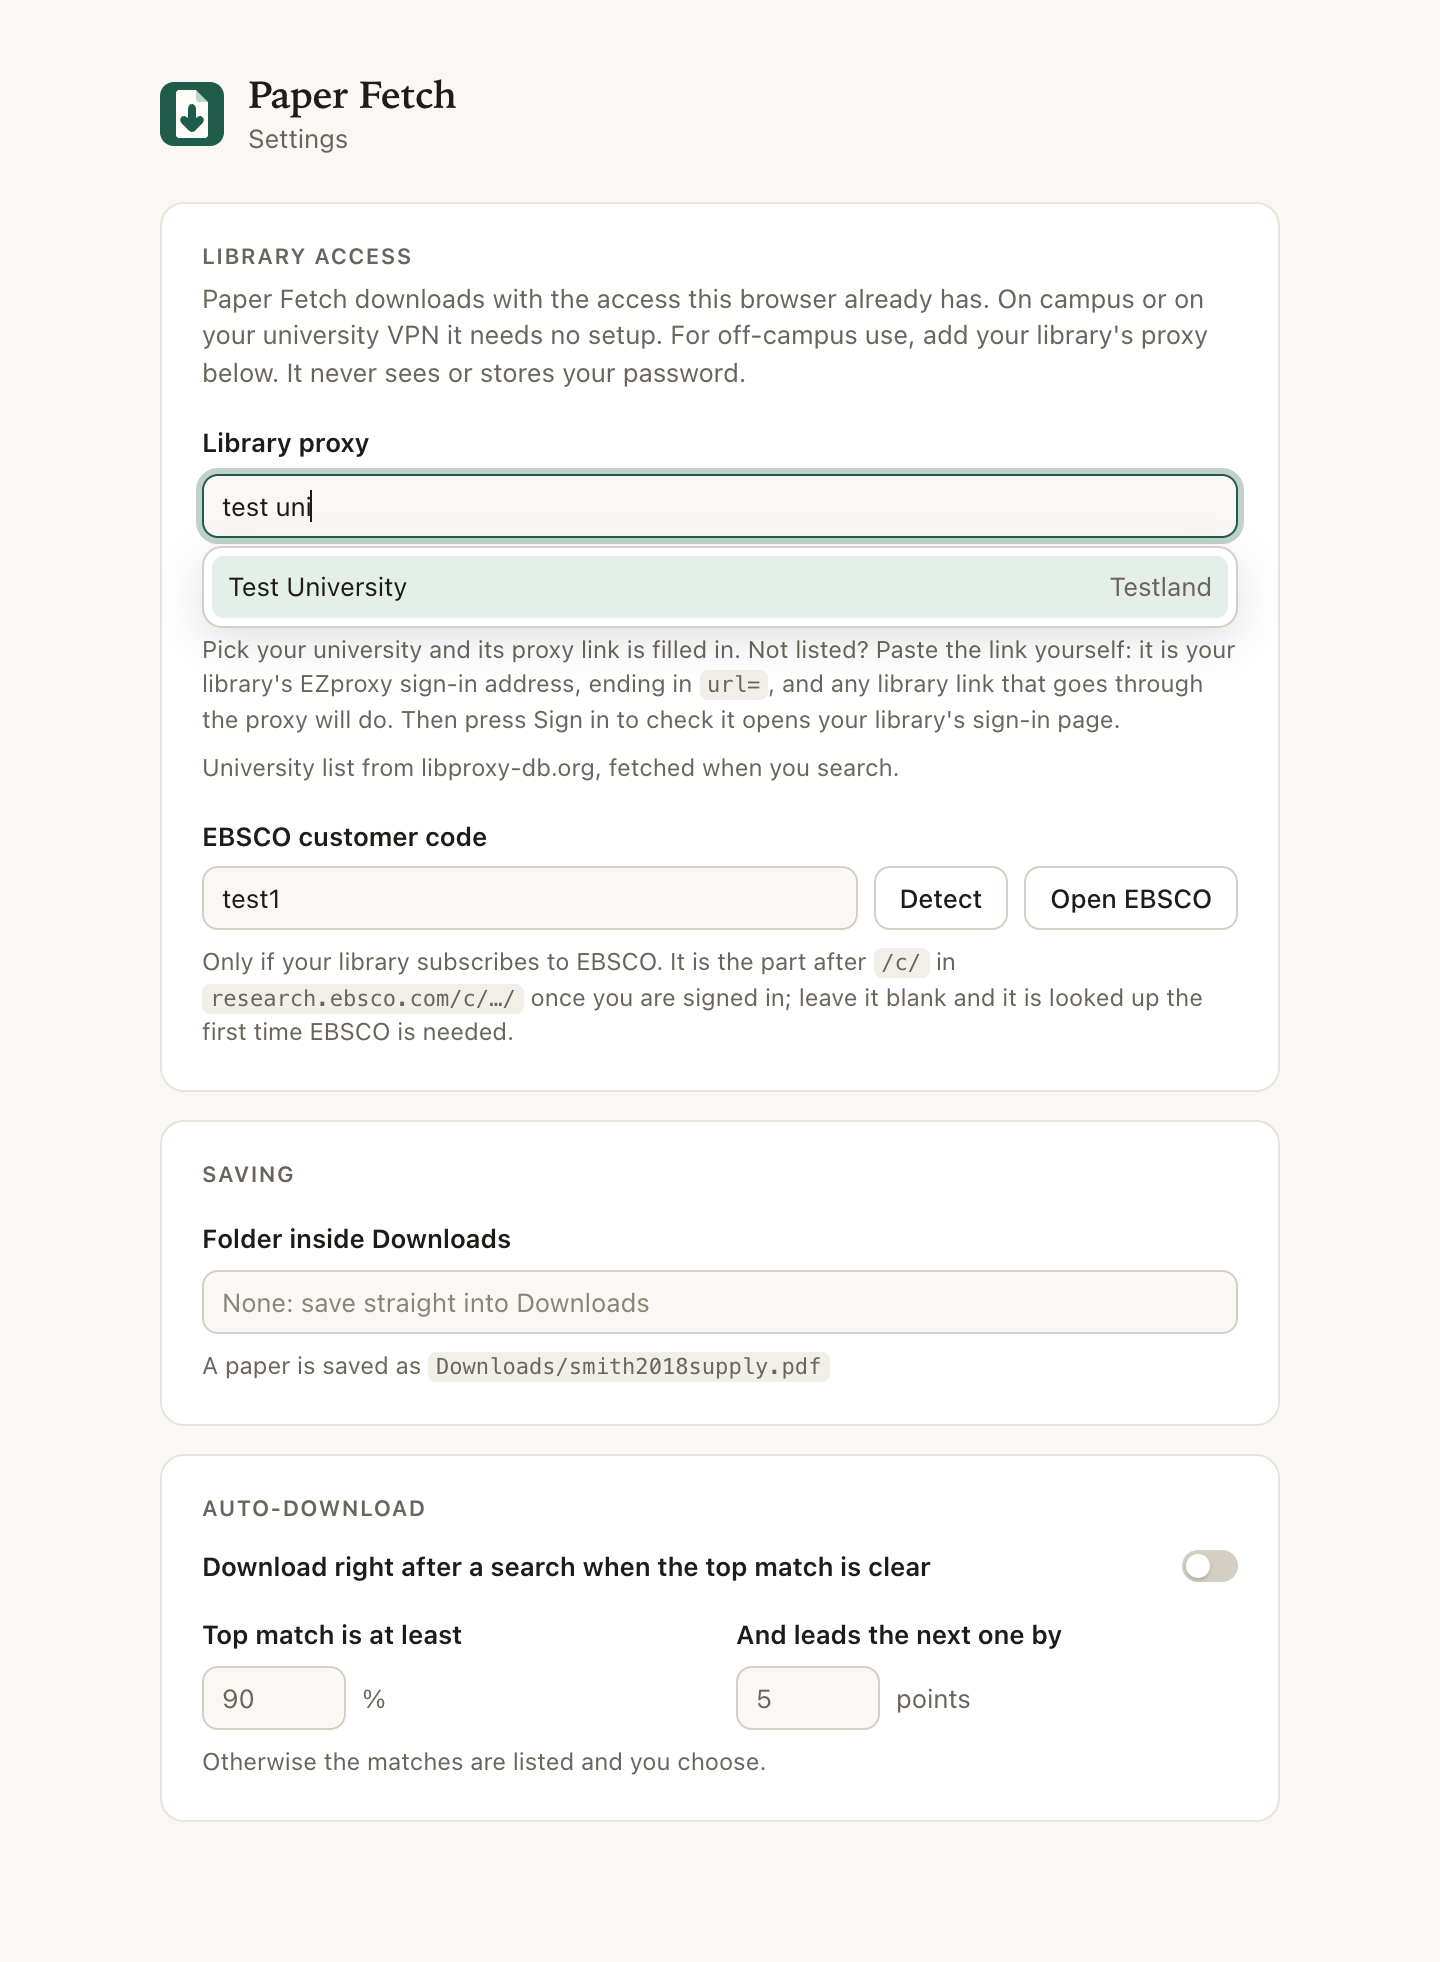
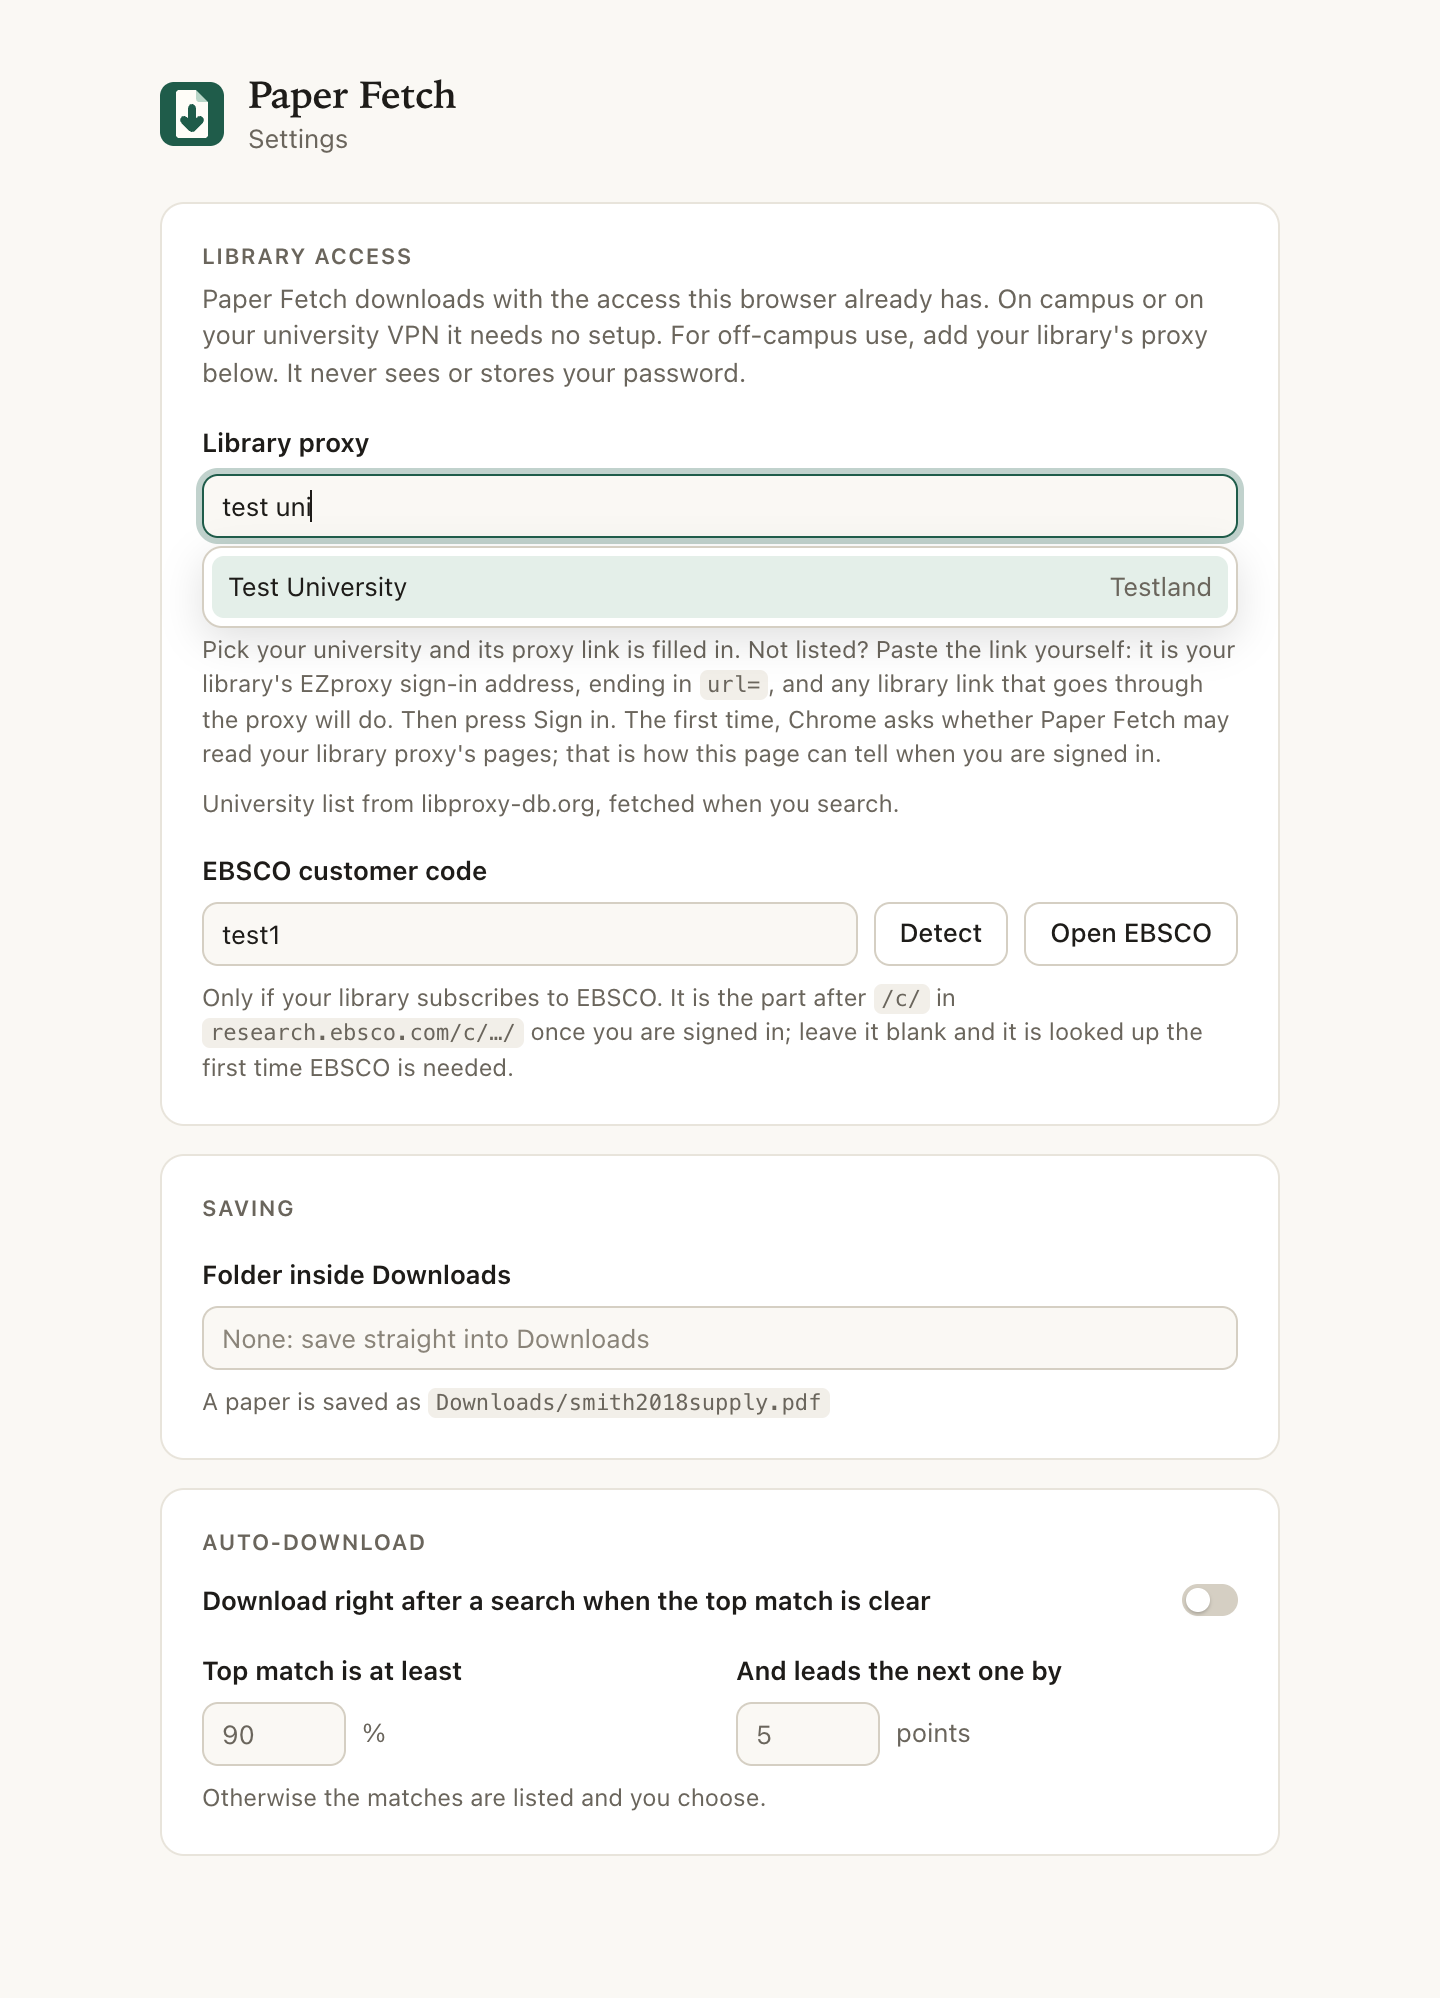
0.5.0: settings show whether you are signed in to the library
The Sign in button turns into a red Sign out once a session with the library
proxy exists, and back when it ends. The state is re-read when the sign-in
tab closes and when the settings page comes back into view.

Reading the proxy's pages needs a host permission, asked for (optionally, for
that one library) the first time Sign in is pressed. Only things a session
alone produces count as signed in: /login leading to /menu, or a proxied site
being handed over. Real proxies with single sign-on answer a signed-out
visitor with a page that has no password box, so its absence proves nothing.

diff --git a/extension/options.js b/extension/options.js
@@ -1,4 +1,4 @@
-import { downloadPath, normalizeProxy } from "./lib.js";
+import { downloadPath, normalizeProxy, proxyScope, proxySession } from "./lib.js";
 
 const $ = (id) => document.getElementById(id);
 
@@ -209,6 +209,7 @@ async function pickSchool(school) {
     await save("proxy");
     $("proxyNote").textContent = `Proxy link set for ${school.name}. Press Sign in to check it opens your library's sign-in page.`;
     $("proxyNote").className = "hint ok";
+    checkSession();
   } catch (error) {
     flash(`Not saved: ${error.message}`, true);
   }
@@ -246,7 +247,9 @@ $("school").addEventListener("keydown", (event) => {
 
 for (const id of Object.keys(CONTROLS)) {
   $(id).addEventListener("change", () => {
-    save(id).catch((error) => flash(`Not saved: ${error.message}`, true));
+    save(id)
+      .then(() => id === "proxy" && checkSession())
+      .catch((error) => flash(`Not saved: ${error.message}`, true));
   });
 }
 $("subfolder").addEventListener("input", showPreview);
@@ -255,26 +258,113 @@ $("detect").addEventListener("click", detect);
 $("openEbsco").addEventListener("click", () => {
   chrome.tabs.create({ url: "https://research.ebsco.com/" });
 });
+// ---- signed in to the library, or not ----
+//
+// The button next to the proxy link is "Sign in" until a session with the
+// library proxy exists, then a red "Sign out". Seeing that needs permission to
+// read the proxy's pages, which is asked for on the first Sign in.
+
+let session = "unknown"; // "in" | "out" | "unknown" (not allowed to look, or no proxy)
+let signInTab = null;
+let looking = null;
+const PROXY_HINT = $("proxyNote").innerHTML;
+
+function showSession(state) {
+  session = state;
+  const signedIn = state === "in";
+  const button = $("openProxy");
+  button.textContent = signedIn ? "Sign out" : "Sign in";
+  button.classList.toggle("danger", signedIn);
+  const note = $("proxyState");
+  note.hidden = state === "unknown";
+  note.textContent = signedIn ? "Signed in to your library" : "Not signed in";
+  note.className = `state ${state}`;
+  if (signedIn) {
+    // "Press Sign in to check…" has been answered.
+    $("proxyNote").innerHTML = PROXY_HINT;
+    $("proxyNote").className = "hint";
+  }
+}
+
+async function checkSession() {
+  const proxy = $("proxy").value.trim();
+  const scope = proxy ? proxyScope(proxy) : null;
+  if (!scope || !(await chrome.permissions.contains({ origins: scope }))) {
+    showSession("unknown");
+    return;
+  }
+  if (!looking) {
+    // The button keeps its last state while this runs; only the line under it changes.
+    $("proxyState").hidden = false;
+    $("proxyState").textContent = "Checking your library sign-in…";
+    $("proxyState").className = "state";
+    looking = proxySession(proxy).finally(() => {
+      looking = null;
+    });
+  }
+  const state = await looking;
+  if ($("proxy").value.trim() === proxy) showSession(state);
+}
+
+async function signOut(origin) {
+  const button = $("openProxy");
+  button.disabled = true;
+  try {
+    await fetch(`${origin}/logout`, { credentials: "include", cache: "no-store" });
+  } catch {
+    // Reaching /logout is what ends the session, even if its page cannot be read.
+  }
+  button.disabled = false;
+  await checkSession();
+}
+
 $("openProxy").addEventListener("click", () => {
   // "<proxy>/login?url=" without a target is the proxy's own sign-in page.
+  const proxy = normalizeProxy($("proxy").value);
   let url;
   try {
-    url = new URL(normalizeProxy($("proxy").value).replace("{url}", ""));
+    url = new URL(proxy.replace("{url}", ""));
   } catch {
     flash("Enter your library's proxy link first", true);
     return;
   }
+  if (session === "in") {
+    signOut(url.origin);
+    return;
+  }
   if (url.hostname === "go.openathens.net") url = new URL("https://my.openathens.net/");
   else url.search = "";
-  chrome.tabs.create({ url: url.href });
+  // Asked here because Chrome only allows it straight from a click. Declining
+  // changes nothing except that this page cannot show the signed-in state.
+  const scope = proxyScope(proxy);
+  const asked = scope ? chrome.permissions.request({ origins: scope }).catch(() => false) : Promise.resolve(false);
+  asked.then(async () => {
+    const tab = await chrome.tabs.create({ url: url.href });
+    signInTab = tab.id;
+  });
+});
+
+// Look again whenever the answer may have changed: the sign-in tab was closed,
+// or this page came back into view.
+chrome.tabs.onRemoved.addListener((tabId) => {
+  if (tabId !== signInTab) return;
+  signInTab = null;
+  checkSession();
+});
+window.addEventListener("focus", checkSession);
+document.addEventListener("visibilitychange", () => {
+  if (!document.hidden) checkSession();
 });
 
 chrome.storage.onChanged.addListener((changes, area) => {
   if (area === "local" && changes.settings?.newValue) {
-    send({ type: "settings:get" }).then((response) => show(response.settings));
+    send({ type: "settings:get" })
+      .then((response) => show(response.settings))
+      .then(checkSession);
   }
 });
 
 send({ type: "settings:get" })
   .then((response) => show(response?.settings || {}))
+  .then(checkSession)
   .catch((error) => flash(error.message, true));

diff --git a/extension/lib.js b/extension/lib.js
@@ -314,6 +314,74 @@ export function proxied(proxy, target) {
   return proxy + (encoded ? encodeURIComponent(target) : target);
 }
 
+// The proxy's own name: its sign-in host without the "login." in front. The
+// sites it proxies appear as <site>.<this name>.
+function proxyName(proxy) {
+  try {
+    const url = new URL(proxy.replace("{url}", ""));
+    if (!/^https?:$/.test(url.protocol) || url.hostname === "go.openathens.net") return null;
+    return { url, name: url.hostname.replace(/^login\./, "") };
+  } catch {
+    return null;
+  }
+}
+
+// Host patterns covering the proxy's sign-in page and the sites behind it;
+// what the extension must be allowed to read to tell whether you are signed
+// in. Null for links this cannot be worked out for.
+export function proxyScope(proxy) {
+  const found = proxyName(proxy);
+  if (!found) return null;
+  const patterns = [`https://*.${found.name}/*`];
+  if (found.url.protocol === "http:") patterns.push(`http://*.${found.name}/*`);
+  return patterns;
+}
+
+// Sites most libraries proxy, used only to see whether a session exists.
+const SESSION_PROBES = [
+  "https://onlinelibrary.wiley.com/",
+  "https://pubsonline.informs.org/",
+  "https://www.jstor.org/",
+];
+
+// Whether the browser holds a live session with the library proxy: "in" or
+// "out". Needs the permission from proxyScope().
+//
+// Only things a session alone produces count as "in". The absence of a
+// password box does not: libraries with single sign-on answer a signed-out
+// visitor with a bare page that forwards to the university's sign-in.
+export async function proxySession(proxy) {
+  const found = proxyName(proxy);
+  if (!found) return "out";
+  const { url: login, name } = found;
+  const land = async (address) => {
+    try {
+      const response = await fetch(address, {
+        credentials: "include",
+        cache: "no-store",
+        signal: AbortSignal.timeout(8000),
+      });
+      response.body?.cancel();
+      return new URL(response.url);
+    } catch {
+      return null; // forwarded to a site we may not read (the university's sign-in), or too slow
+    }
+  };
+  const inside = (host) => host === name || host.endsWith(`.${name}`);
+
+  // 1. EZproxy sends someone who is already signed in from /login to /menu.
+  const menu = await land(`${login.origin}/login`);
+  if (menu && inside(menu.hostname) && /^\/menu\b/.test(menu.pathname)) return "in";
+
+  // 2. Asked for a site it proxies, it hands a signed-in visitor on to the
+  //    proxied copy (<site>.<name>); anyone else stays at the sign-in.
+  const landings = await Promise.all(SESSION_PROBES.map((target) => land(proxied(proxy, target))));
+  const handedOn = landings.some(
+    (at) => at && inside(at.hostname) && at.hostname !== name && !at.hostname.startsWith("login."),
+  );
+  return handedOn ? "in" : "out";
+}
+
 export function citeKey(candidate) {
   const family = lastName((candidate.authors || [])[0] || "anon") || "anon";
   const year = String(candidate.year || "nd");

diff --git a/extension/options.html b/extension/options.html
@@ -37,11 +37,13 @@
           <input id="proxy" class="input" spellcheck="false" aria-label="Library proxy link" placeholder="https://login.ezproxy.youruni.edu/login?url=">
           <button id="openProxy" class="btn" type="button">Sign in</button>
         </div>
+        <p id="proxyState" class="state" role="status" hidden></p>
         <p id="proxyNote" class="hint">
           Pick your university and its proxy link is filled in. Not listed? Paste the link
           yourself: it is your library's EZproxy sign-in address, ending in <code>url=</code>,
-          and any library link that goes through the proxy will do. Then press Sign in to
-          check it opens your library's sign-in page.
+          and any library link that goes through the proxy will do. Then press Sign in. The
+          first time, Chrome asks whether Paper Fetch may read your library proxy's pages;
+          that is how this page can tell when you are signed in.
         </p>
         <p class="hint credit">University list from libproxy-db.org, fetched when you search.</p>
       </div>

diff --git a/extension/options.css b/extension/options.css
@@ -147,6 +147,32 @@
   color: var(--muted);
 }
 
+.state {
+  display: flex;
+  align-items: center;
+  gap: 7px;
+  margin: 8px 0 0;
+  font-size: 12px;
+  font-weight: 600;
+  color: var(--muted);
+}
+
+.state::before {
+  content: "";
+  width: 8px;
+  height: 8px;
+  border-radius: 50%;
+  background: var(--line-strong);
+}
+
+.state.in {
+  color: var(--ok);
+}
+
+.state.in::before {
+  background: var(--ok);
+}
+
 .credit {
   margin-top: 4px;
   font-size: 11.5px;

diff --git a/extension/theme.css b/extension/theme.css
@@ -117,6 +117,18 @@ textarea {
   color: var(--on-accent);
 }
 
+.btn.danger {
+  border-color: var(--err);
+  background: var(--err-soft);
+  color: var(--err);
+}
+
+.btn.danger:hover {
+  border-color: var(--err);
+  background: var(--err);
+  color: var(--surface);
+}
+
 .btn:disabled {
   border-color: transparent;
   background: var(--inset);

diff --git a/README.md b/README.md
@@ -63,6 +63,8 @@ The settings page opens on first install.
 | Off campus | In settings, type your university's name, pick it, and press **Sign in**. |
 | Your library has EBSCO | Sign in to EBSCO once in this browser. The rest is found automatically. |
 
+Once you have signed in, the **Sign in** button in settings turns into a red **Sign out**, so you can see whether your library session is live and end it when you are done. The first time you press Sign in, Chrome asks whether Paper Fetch may read your library proxy's pages; that is only used for this check, and declining leaves everything else working.
+
 The university search covers about 1,500 libraries that use EZproxy, from the public list at [libproxy-db.org](https://libproxy-db.org/). If yours is not there, either paste any link from your library's website that goes through its proxy (it is trimmed to the part that matters), or open the popup while you are on your library's sign-in page and choose **Use it for downloads**.
 
 ## About EBSCO
@@ -88,7 +90,7 @@ EBSCO is not a subject database. It hosts many databases that libraries subscrib
 
 Paper Fetch has no server and no analytics. The title or DOI you search goes to Crossref; the DOI of the paper you download goes to OpenAlex; the download itself goes to the publisher, your library proxy or EBSCO, as it would if you clicked the link yourself. When you click its button, it reads the address and article tags of the page you are on, and that stays in your browser. Settings stay in the browser. It uses the sessions you are already signed in to and never sees a password. Details: [PRIVACY.md](PRIVACY.md).
 
-Permissions it asks for: **activeTab** (read the page you click the button on), **downloads** (save the PDF), **storage** (settings), and **scripting on ebsco.com** (run the search on the EBSCO page).
+Permissions it asks for: **activeTab** (read the page you click the button on), **downloads** (save the PDF), **storage** (settings), and **scripting on ebsco.com** (run the search on the EBSCO page). Optionally, and only if you allow it when asked: **your library proxy's site**, to show whether you are signed in.
 
 ## Disclaimer
 

diff --git a/PRIVACY.md b/PRIVACY.md
@@ -9,6 +9,7 @@ Paper Fetch has no server of its own, no account, no analytics and no advertisin
 | You search | The title, author and year you typed, or the DOI | Crossref (`api.crossref.org`) |
 | You download | The DOI of the paper | OpenAlex (`api.openalex.org`), to look for an open-access copy |
 | You download | An ordinary download request for the PDF | The publisher, your library's proxy, or EBSCO |
+| The settings page is open, and you allowed it | Requests to your library proxy's own sign-in address, to see whether you are signed in. Nothing about you is added to them. | Your library's proxy |
 | You search for your university in settings | A request for the public list of library proxies. What you type is matched in your browser and is not sent. | libproxy-db.org |
 
 The download requests are the same ones your browser would make if you clicked the link yourself, and they carry the sessions you are already signed in to. Paper Fetch does not read, copy or store your cookies or passwords.
@@ -26,6 +27,7 @@ Nothing else is stored. Removing the extension removes all of it.
 
 ## Permissions
 
+- Your library proxy's site (optional, asked for the first time you press Sign in in settings): read the proxy's sign-in page, so the settings page can show whether you are signed in and sign you out. If you decline, downloads work the same; only that indicator is missing.
 - `activeTab`: read the page you click the button on, as described above. It gives no access to your other tabs or your browsing history.
 - `downloads`: save the PDF and check that what arrived is a PDF.
 - `storage`: keep the settings above.

diff --git a/docs/store-listing.md b/docs/store-listing.md
@@ -49,6 +49,7 @@ Download the PDF of a scholarly paper, recognised from the page the user is on o
 - storage: keeps the user's settings (library proxy link, EBSCO customer code, download folder, auto-download preferences) and the last search.
 - scripting: runs the search and presses the download button on the EBSCO page in a background tab, on the user's request.
 - Host permission `https://*.ebsco.com/*`: the scripting above is limited to EBSCO's site.
+- Optional host permissions (`https://*/*`, `http://*/*`): never requested as a whole. When the user presses Sign in in settings, the extension asks for the one site of their own library's proxy, to read its sign-in page and show whether they are signed in. Libraries differ per user, so the site cannot be listed in advance.
 
 ## Data usage
 
